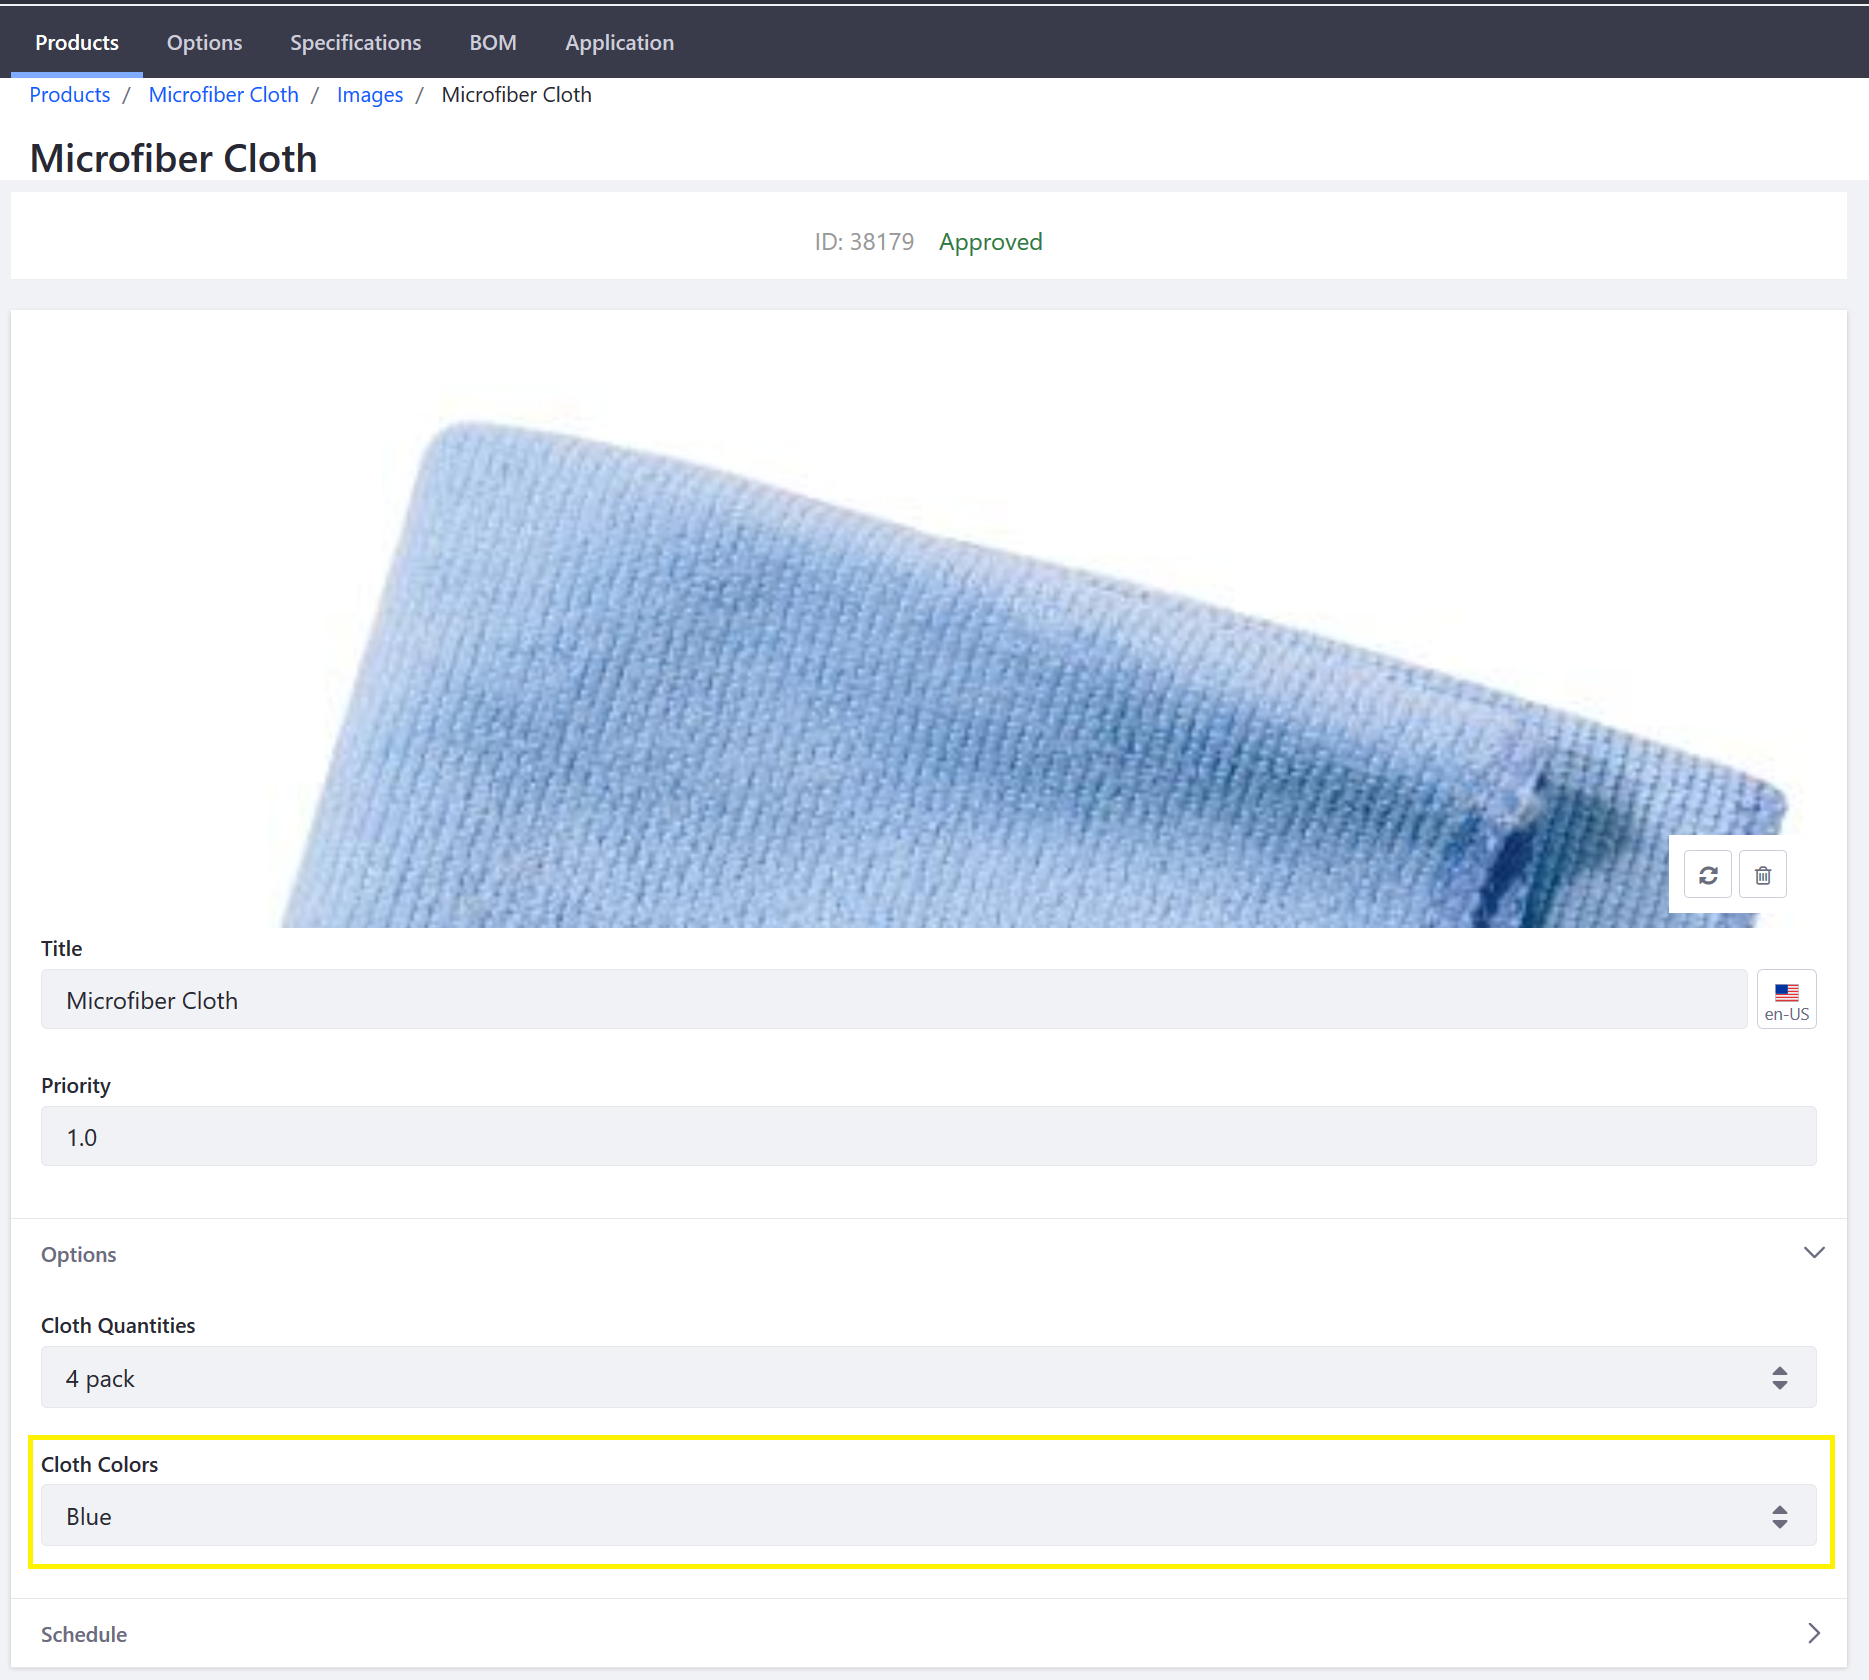
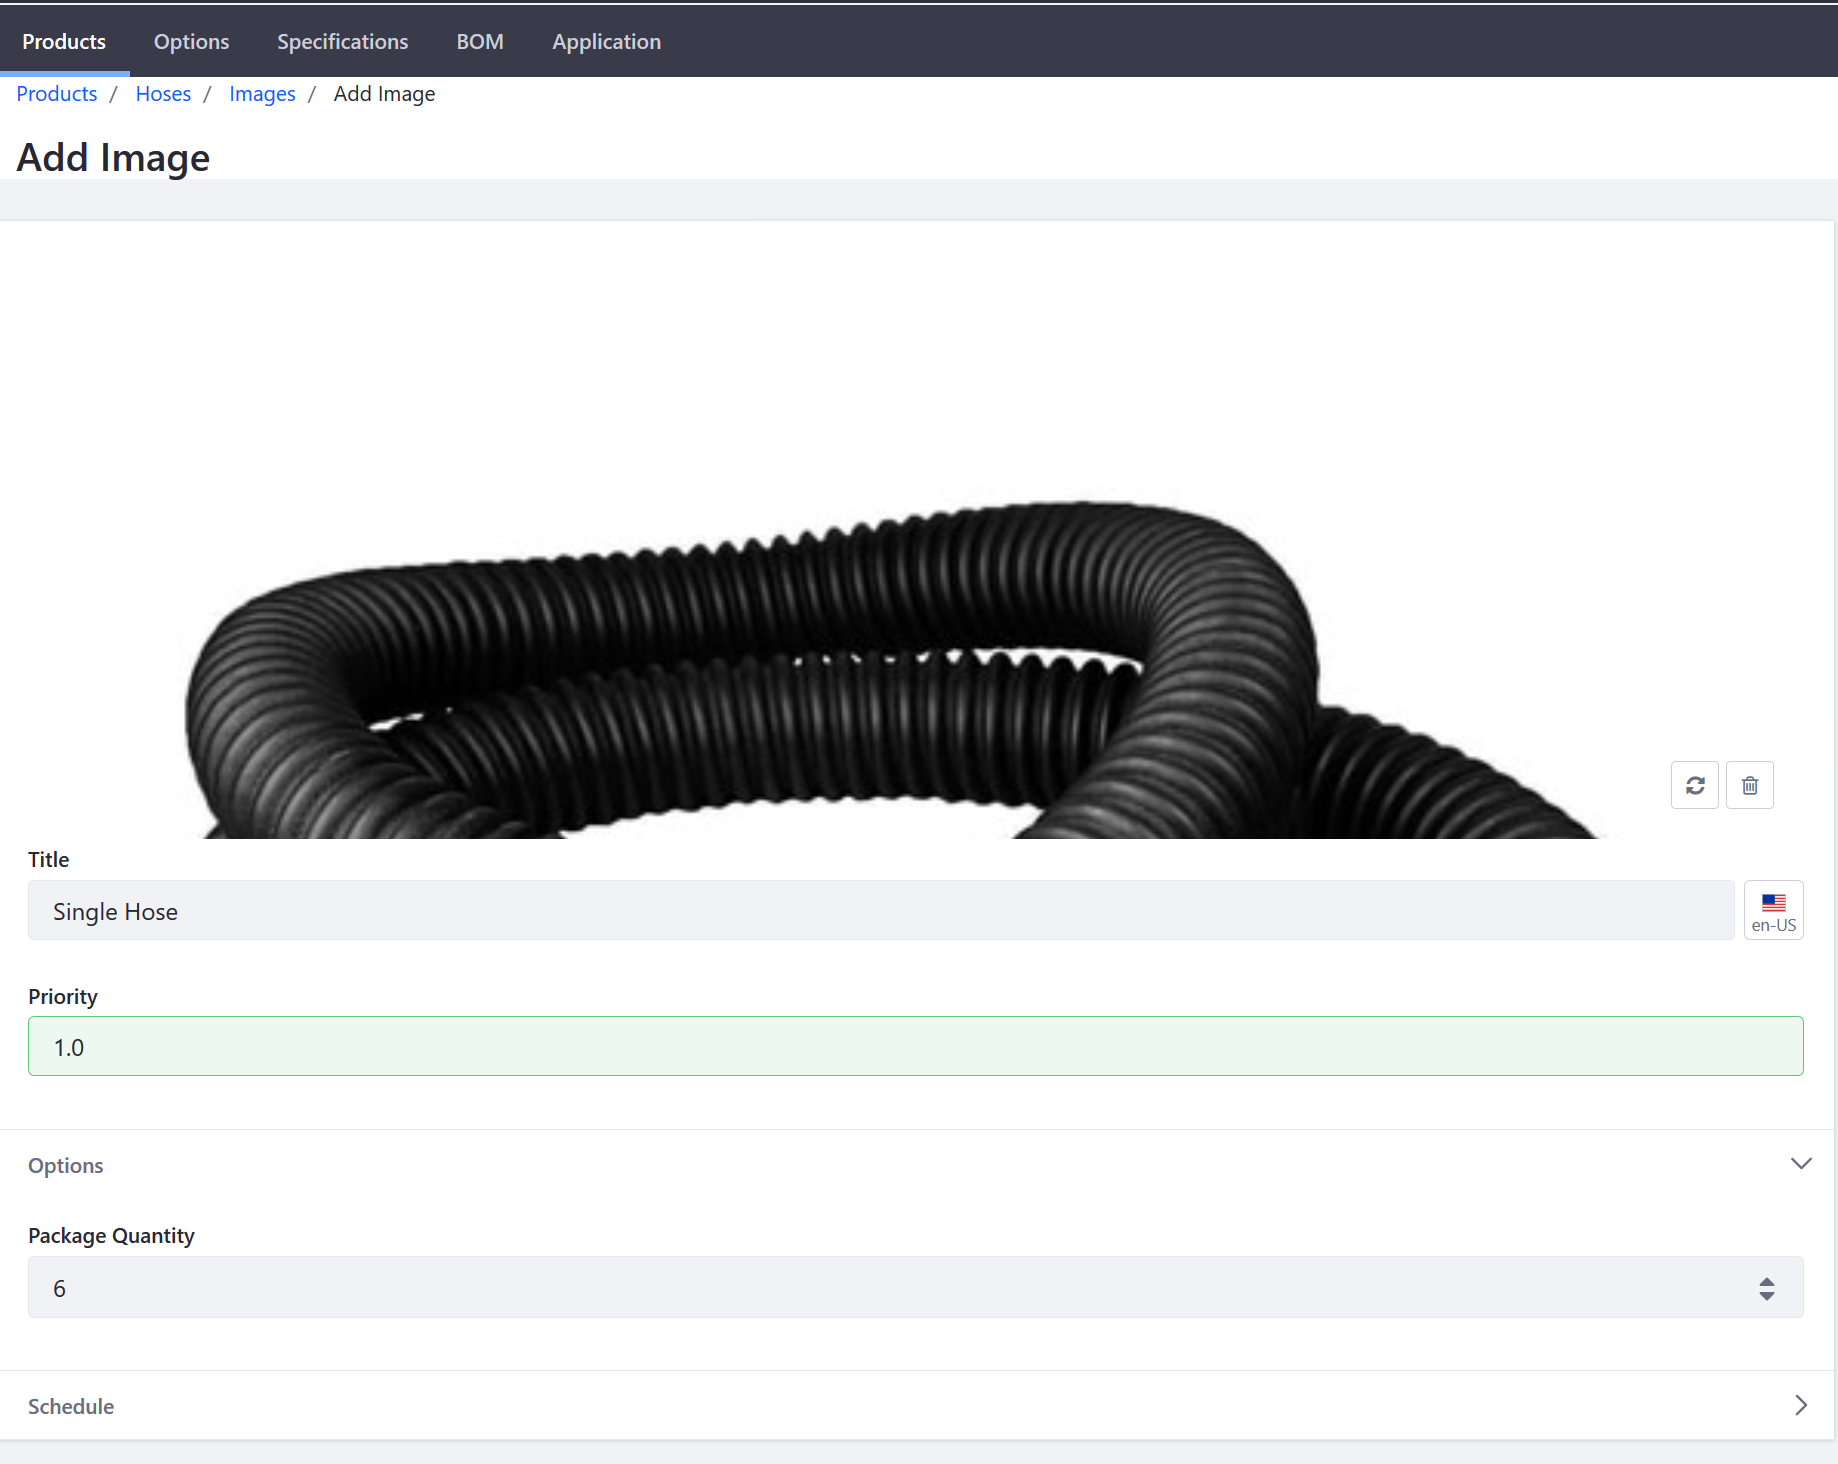
modified Product images

diff --git a/commerce/user-guide/catalog/creating-and-managing-products/product-information/product-images/README.md b/commerce/user-guide/catalog/creating-and-managing-products/product-information/product-images/README.md
@@ -35,24 +35,26 @@ As noted above, multiple product images can be associated with the same product.
 
 ### Prerequisites
 
-1. Product Options have been created for this product.
-2. Multiple SKUs have been generated for this product.
+1. [Product Options](../../customizing-your-product-with-product-options/README.md) have been created for this product.
+2. [Multiple SKUs](../../adding-skus-to-your-products/README.md) have been generated for this product.
 
-### Associating a Product Image With a SKU
-
-In this example, we can update an existing product image's settings so that this image is associated with this product SKU. 
+Once you have created Product Options and then generated the corresponding SKUs, you can add then associate different product images. To add multiple images to the different SKUs:  
 
 1. Navigate to the _Control Panel_ → _Commerce_ → _Products_.
-1. Click on a product (in this example, _Microfiber Cloth_).
+1. Click on a product (in this example, _Hoses_). (If you had used Minium to create your store and sample data, this product was added by the Minium accelerator).
 1. Click the _Images_ sub-tab.
+1. Click the (+) button to add a Product Image.
+1. Drag and Drop or click _Select File_ to insert an image.
 1. Click on the existing image.
-1. Select _Blue_ under the _Cloth Colors_ Options.
+1. Select _6_ under the _Package Quantity_ Options.
 
     <img src="./images/04.png" width="700px" style="border: #000000 1px solid;">
 
 1. Click _Publish_.
 
-This product image has been updated with the respective Product Option. Repeat these steps for all other available product images. Alternately, you can associate the product image with the Product Option when uploading the image for the first time.
+This product image has been updated with the respective Product Option. Repeat these steps for all other available SKUs such as another package quantity. In this example, different images could used for the different package quantities. When searching for a product, you can see that all images have been included inside the Product Detail widget.
+
+<img src="./images/05.png" width="700px" style="border: #000000 1px solid;">
 
 ## Additional Information
 
